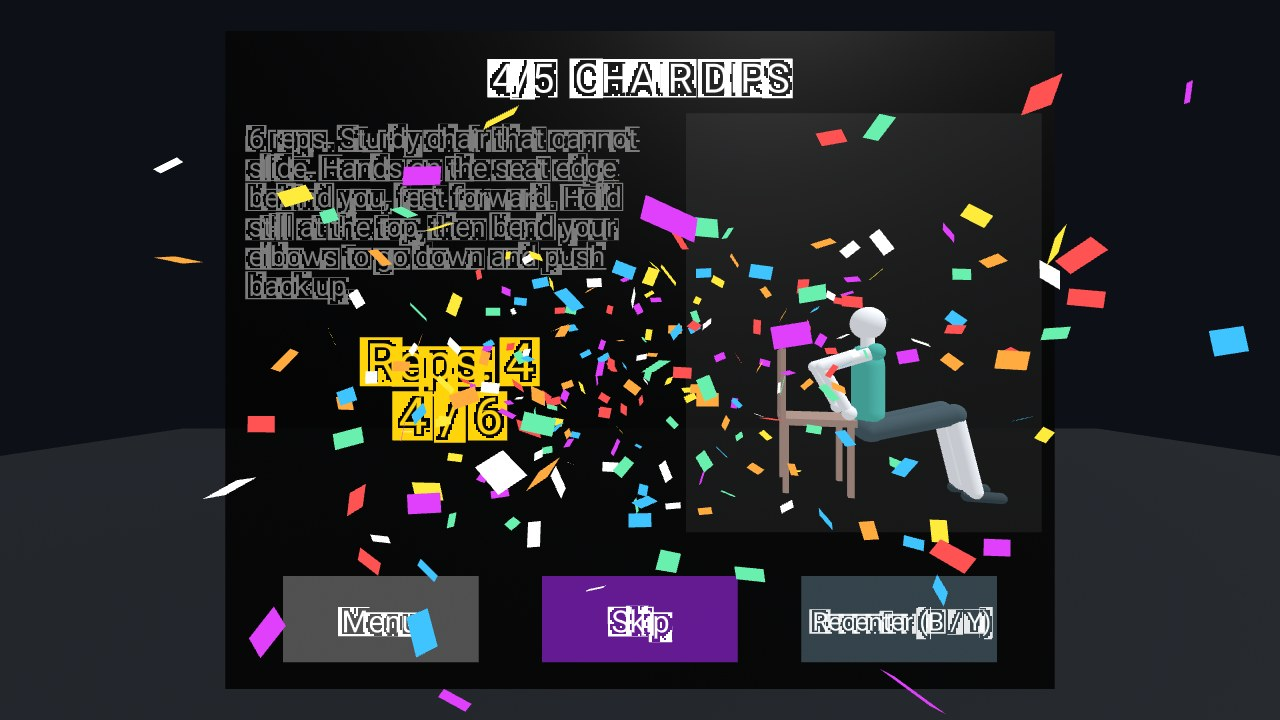
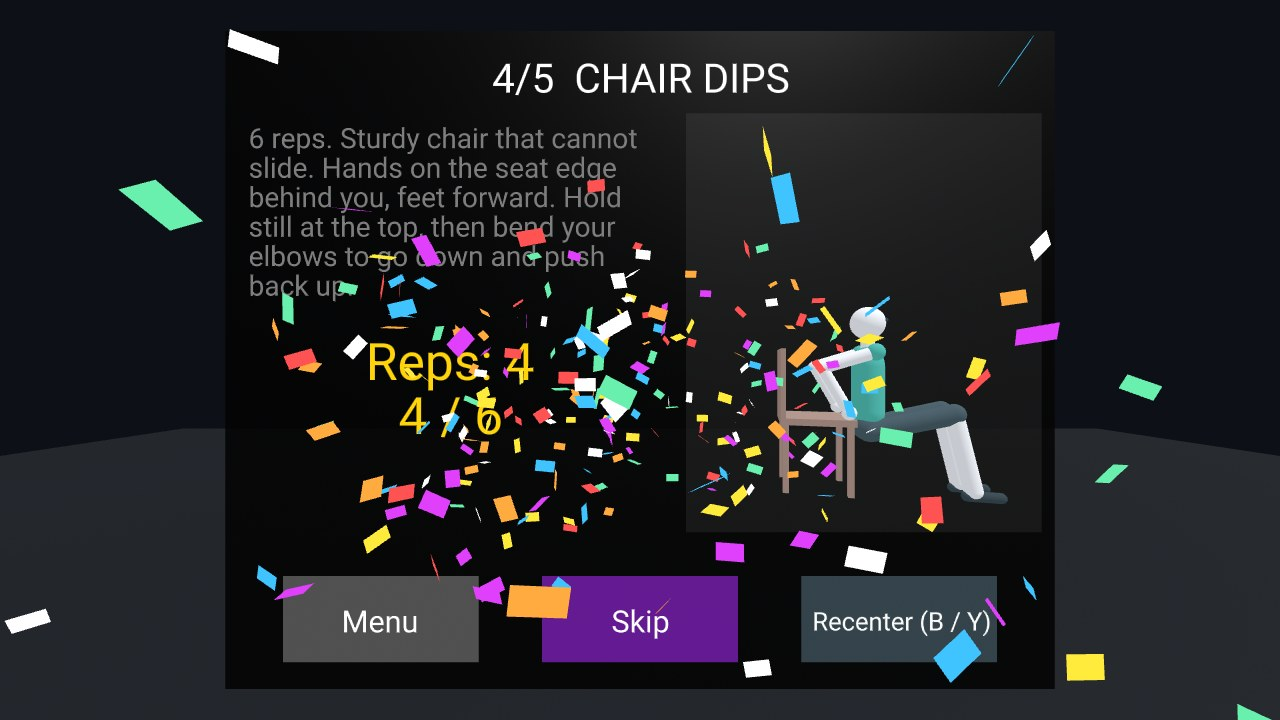
Screenshots: render with the graphics card, so text is clean
SwiftShader (the software renderer the tests use) draws A-Frame's MSDF
text with boxy outlines around every letter. launch({ gpu: true }) uses
the machine's GPU; screenshots.mjs uses it and warns when it falls back.

diff --git a/CLAUDE.md b/CLAUDE.md
@@ -33,7 +33,7 @@ The app has no build step and no package manager. `tests/` is the only place wit
   - Tests that import app modules in the page do it with the page's own version: `import('/js/x.js' + new URL(document.querySelector('script[type=module]').src).search)`.
   - The workflow runs the whole test suite against the rewritten copy (`WWW=<dir> npm test`) and deploys only if it passes.
 - **Safety first.** The app is public: keep the safety notice (`#safetyPanel`, shown before the menu until accepted once per device, `SAFETY_VERSION` in `app.js`; bump it when the text changes in substance) and the README warning. Test launches accept it automatically (`launch()` in `tests/lib.mjs`; `launch({ safetyAccepted: false })` to test it). Don't add exercises that are risky with a headset on: big jumps or landings (jumping jacks are the limit, and their instructions ask for room around), moving across the room, long balance on one foot, or lying face down with the headset on the floor. Instructions for anything with equipment say how to keep it stable (a sturdy chair that can't slide).
-- **README screenshots** (`docs/screenshots/`, not deployed) come from `tests/screenshots.mjs` (desktop preview, frozen clock). When the UI or a demo shown there changes, regenerate them: serve `www/`, then `node tests/screenshots.mjs <url> docs/screenshots` (needs ImageMagick for the contact sheet and GIF), and look at them before committing. Keep the README user-oriented; technical material goes in `DEVELOPMENT.md`.
+- **README screenshots** (`docs/screenshots/`, not deployed) come from `tests/screenshots.mjs` (desktop preview, frozen clock). When the UI or a demo shown there changes, regenerate them: serve `www/`, then `node tests/screenshots.mjs <url> docs/screenshots` (needs ImageMagick for the contact sheet and GIF, and a graphics card: `launch({ gpu: true })`, since SwiftShader, the software renderer the tests use, draws A-Frame's text with boxy outlines around every letter), and look at them before committing. Keep the README user-oriented; technical material goes in `DEVELOPMENT.md`.
 - **License:** MIT (`LICENSE`). Only add code or assets under a compatible license, and keep A-Frame loaded from its CDN.
 - **A-Frame, not raw three.js**, for scene structure. Dropping down to `object3D` / `THREE` inside components is fine for math and performance.
 
